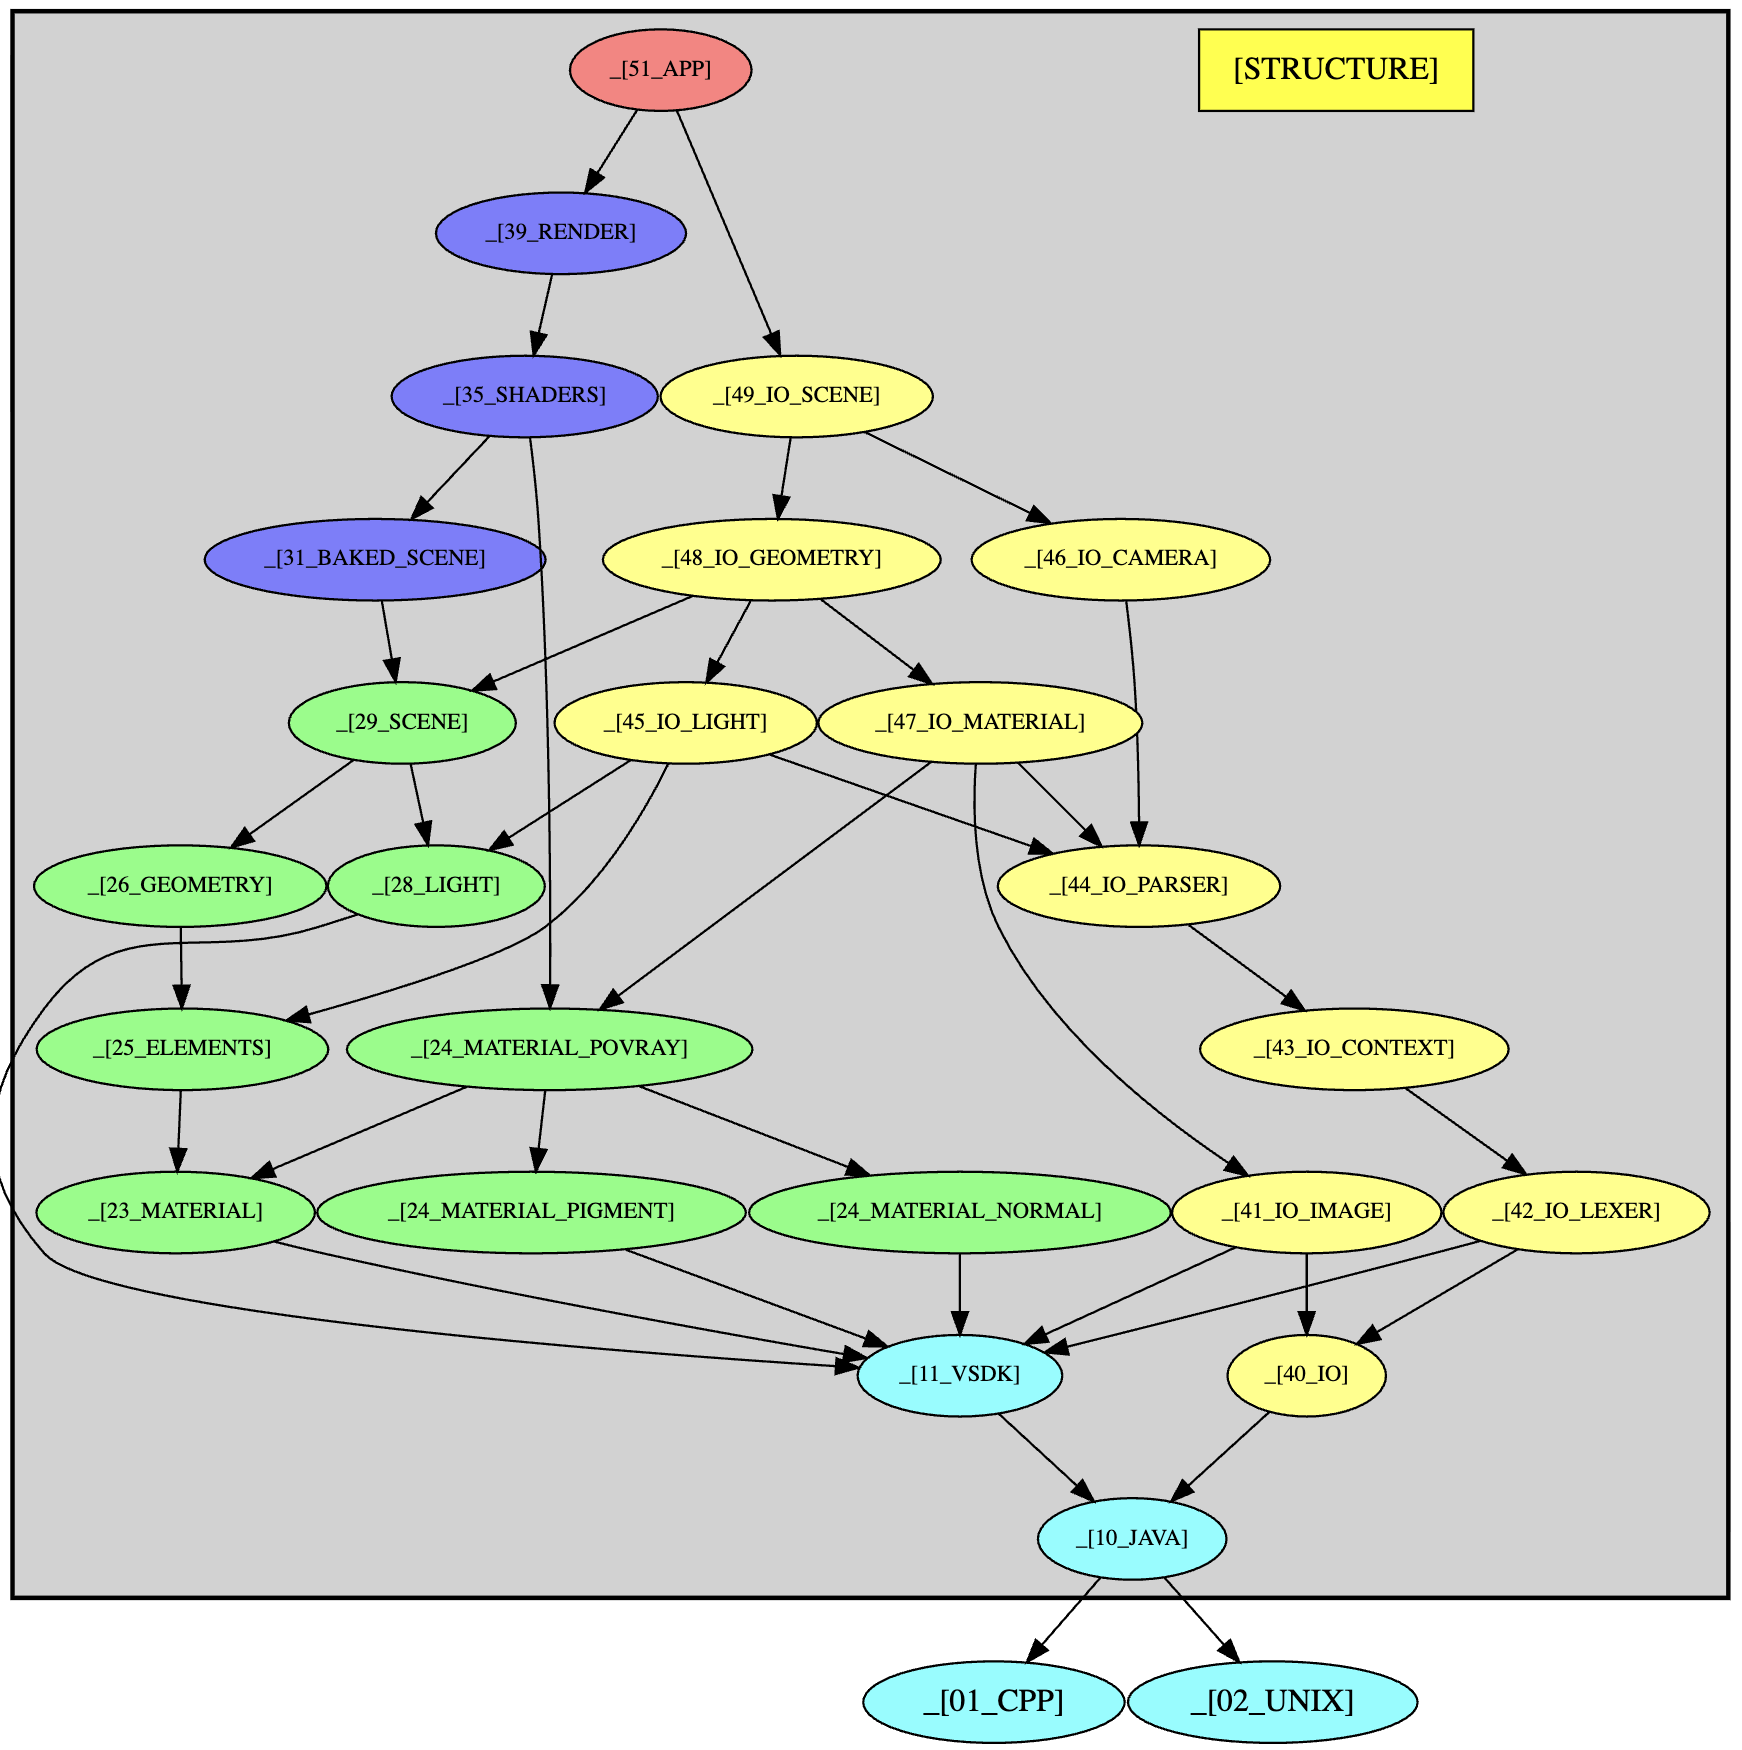
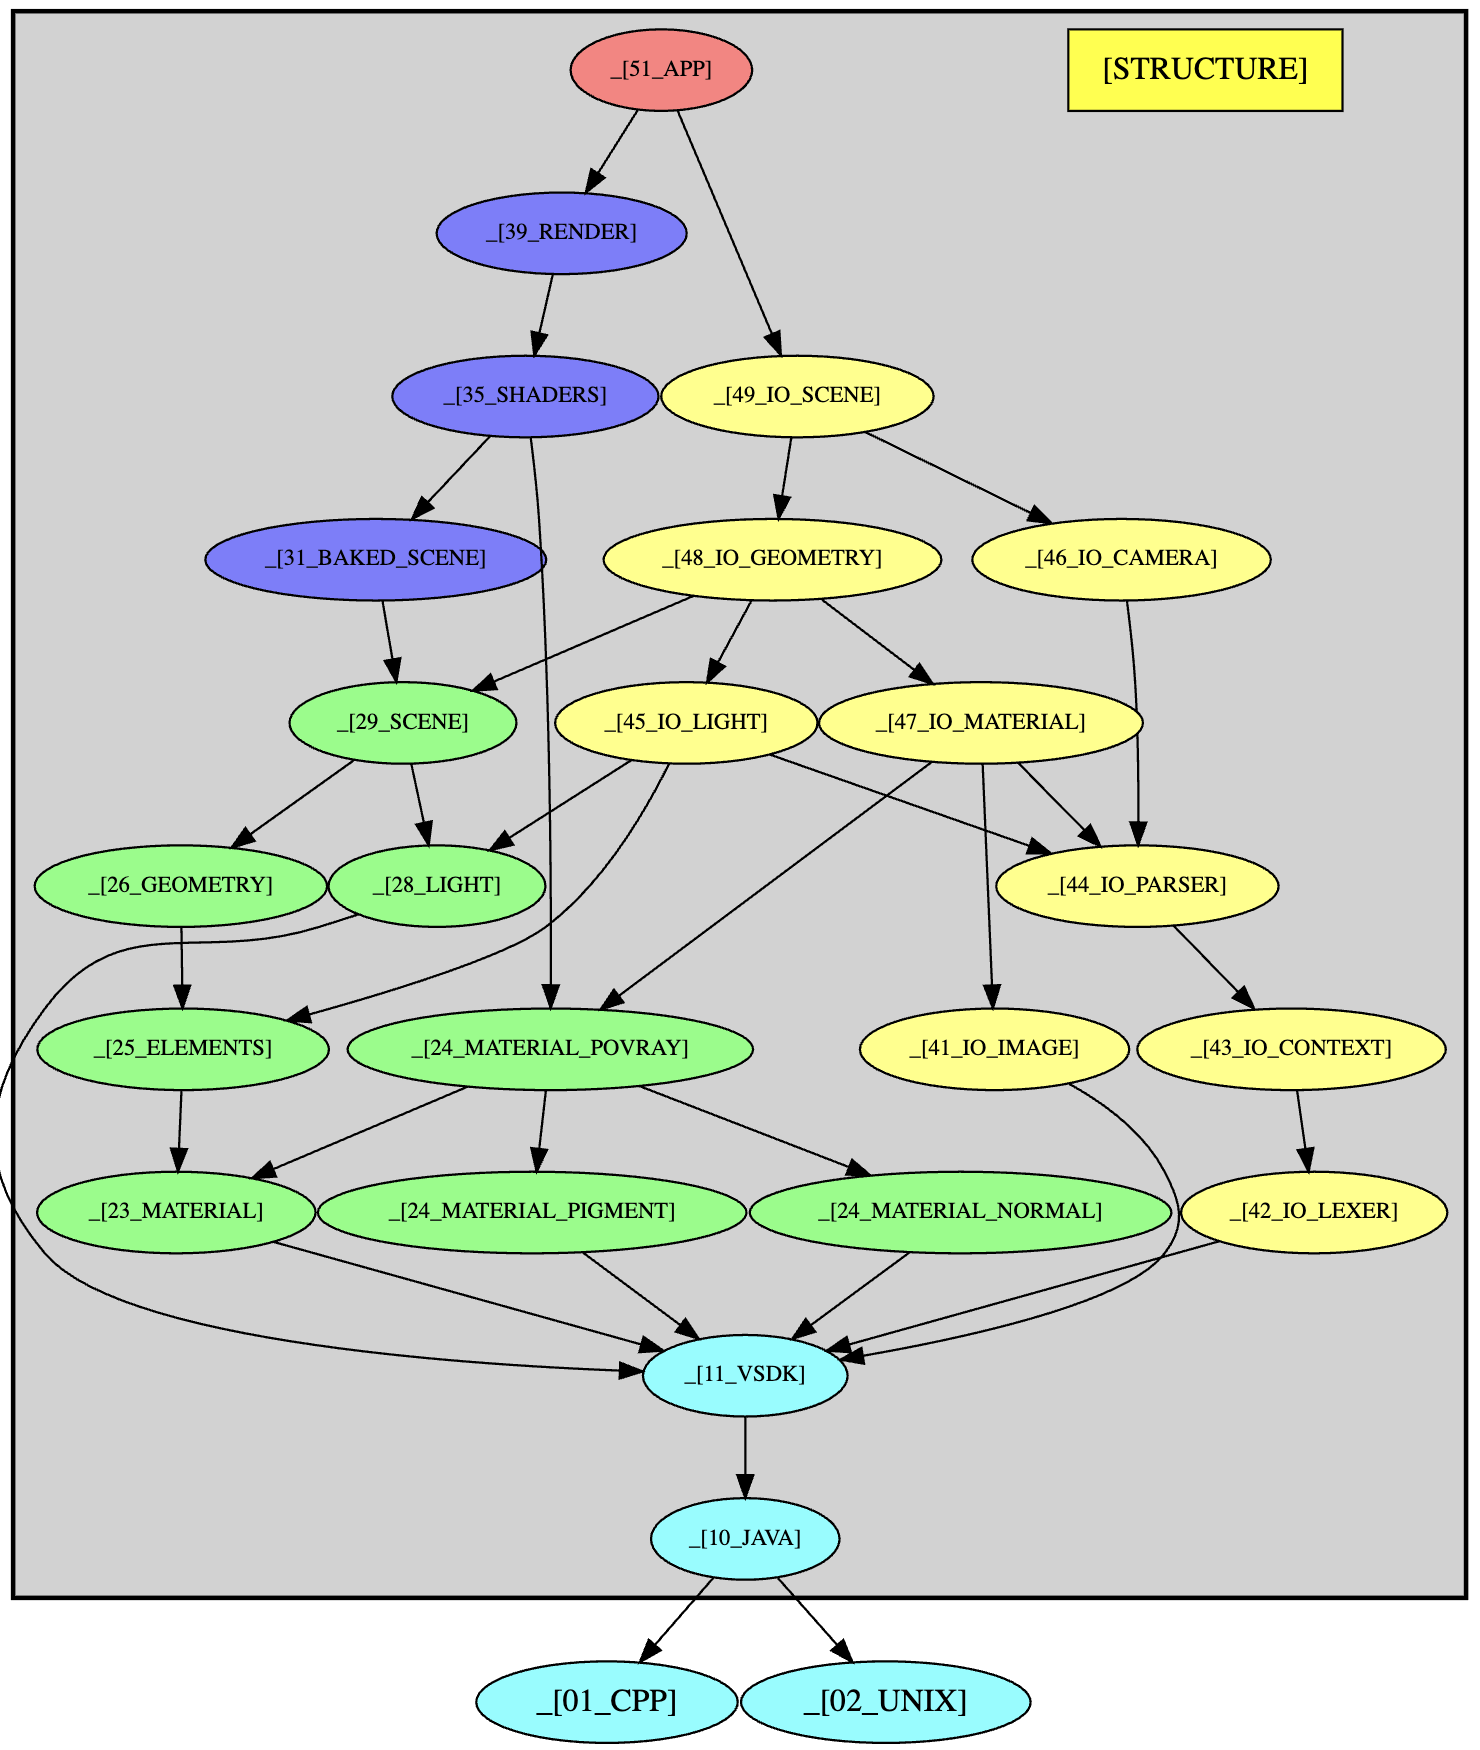
FileLocator in vitral

Changed region(s): [[0.0, 0.0, 0.9946, 1.0], [0.6838, 0.0, 0.9324, 0.0617], [0.3108, 0.7406, 0.3419, 0.7714]]

diff --git a/base/src/main/vsdk/toolkit/io/FileLocator.cpp b/base/src/main/vsdk/toolkit/io/FileLocator.cpp
@@ -1,0 +1,43 @@
+#include <cstdio>
+
+#include "java/util/ArrayList.txx"
+#include "vsdk/toolkit/io/FileLocator.h"
+
+void
+FileLocator::clearSearchPaths()
+{
+    searchPaths.clear();
+}
+
+void
+FileLocator::addSearchPath(const char *path)
+{
+    searchPaths.add(java::String(path));
+}
+
+const java::ArrayList<java::String> &
+FileLocator::getSearchPaths() const
+{
+    return searchPaths;
+}
+
+java::File *
+FileLocator::locate(const char *filename) const
+{
+    java::File *candidate = new java::File(filename);
+    if (candidate->canRead()) {
+        return candidate;
+    }
+    delete candidate;
+
+    for (long int i = 0; i < searchPaths.size(); i++) {
+        char pathname[512];
+        snprintf(pathname, sizeof(pathname), "%s/%s", searchPaths.get(i).toCString(), filename);
+        candidate = new java::File(pathname);
+        if (candidate->canRead()) {
+            return candidate;
+        }
+        delete candidate;
+    }
+    return nullptr;
+}

diff --git a/base/src/main/vsdk/toolkit/io/FileLocator.h b/base/src/main/vsdk/toolkit/io/FileLocator.h
@@ -1,0 +1,19 @@
+#ifndef __FILE_LOCATOR__
+#define __FILE_LOCATOR__
+
+#include "java/lang/String.h"
+#include "java/util/ArrayList.h"
+#include "java/io/File.h"
+
+class FileLocator {
+  private:
+    java::ArrayList<java::String> searchPaths;
+
+  public:
+    void clearSearchPaths();
+    void addSearchPath(const char *path);
+    const java::ArrayList<java::String> &getSearchPaths() const;
+    java::File *locate(const char *filename) const;
+};
+
+#endif

diff --git a/src/io/pov/lexer/Tokenizer.cpp b/src/io/pov/lexer/Tokenizer.cpp
@@ -10,7 +10,7 @@ description files.  This phase changes the input file into tokens.
 #include <cctype>
 
 #include "vsdk/toolkit/common/logging/Logger.h"
-#include "io/binaryIo/FileLocator.h"
+#include "vsdk/toolkit/io/FileLocator.h"
 #include "io/pov/lexer/Tokenizer.h"
 
 /**
@@ -184,7 +184,11 @@ Tokenizer::initializeTokenizer(const char *filename)
     sGlobalIncludeFileIndex = 0;
     sGlobalDataFile = &sGlobalIncludeFiles[0];
 
-    sGlobalDataFile->setFile(mFileLocator->locate(filename, "r"));
+    {
+        java::File * const located = mFileLocator->locate(filename);
+        sGlobalDataFile->setFile(located == nullptr ? nullptr : fopen(located->getPath().toCString(), "r"));
+        delete located;
+    }
     if (sGlobalDataFile->getFile() == nullptr) {
         Logger::reportMessage("Tokenizer", Logger::FATAL_ERROR, "", "Cannot open input file\n");
     }
@@ -546,8 +550,11 @@ Tokenizer::getToken()
 
             strcpy(sGlobalDataFile->getFilename(), token().getTokenString());
 
-            sGlobalDataFile->setFile(mFileLocator->locate(
-                token().getTokenString(), "r"));
+            {
+                java::File * const located = mFileLocator->locate(token().getTokenString());
+                sGlobalDataFile->setFile(located == nullptr ? nullptr : fopen(located->getPath().toCString(), "r"));
+                delete located;
+            }
             if (sGlobalDataFile->getFile() == nullptr) {
                 {
                     char _logMsg[1024];

diff --git a/src/io/image/RawDumpFormat.cpp b/src/io/image/RawDumpFormat.cpp
@@ -23,7 +23,7 @@ The format is as follows:
 #include "vsdk/toolkit/common/logging/Logger.h"
 #include "vsdk/toolkit/io/PersistenceElement.h"
 #include "vsdk/toolkit/media/RGBAImageHDRUncompressed.h"
-#include "io/binaryIo/FileLocator.h"
+#include "vsdk/toolkit/io/FileLocator.h"
 #include "io/image/RawDumpFormat.h"
 
 class AppendableFileOutputStream : public java::OutputStream {
@@ -101,9 +101,13 @@ RawDumpFormat::open(char *name, int *w, int *h, int bufferSize, int openMode, in
 
     switch (mode) {
     case READ_MODE:
-        inputStream = fileLocator->locateAsStream(name);
-        if (inputStream == nullptr) {
-            return 0;
+        {
+            java::File * const located = fileLocator->locate(name);
+            if (located == nullptr) {
+                return 0;
+            }
+            inputStream = new java::FileInputStream(located->getPath().toCString());
+            delete located;
         }
         *w = PersistenceElement::readSignedShortLE(*inputStream);
         *h = PersistenceElement::readSignedShortLE(*inputStream);

diff --git a/src/io/image/TargaFormat.cpp b/src/io/image/TargaFormat.cpp
@@ -5,7 +5,7 @@
 #include "vsdk/toolkit/common/color/ColorRgba.h"
 #include "vsdk/toolkit/common/logging/Logger.h"
 #include "vsdk/toolkit/media/RGBAImageHDRUncompressed.h"
-#include "io/binaryIo/FileLocator.h"
+#include "vsdk/toolkit/io/FileLocator.h"
 #include "io/image/TargaFormat.h"
 
 class AppendableFileOutputStream : public java::OutputStream {
@@ -83,9 +83,13 @@ TargaFormat::open(char *name, int *w, int *h, int bufferSize, int openMode, int 
 
     switch (mode) {
     case READ_MODE:
-        inputStream = fileLocator->locateAsStream(name);
-        if (inputStream == nullptr) {
-            return 0;
+        {
+            java::File * const located = fileLocator->locate(name);
+            if (located == nullptr) {
+                return 0;
+            }
+            inputStream = new java::FileInputStream(located->getPath().toCString());
+            delete located;
         }
         for (int i = 0; i < 12; i++) {
             if (inputStream->read() == -1) {

diff --git a/src/io/image/IffFormat.cpp b/src/io/image/IffFormat.cpp
@@ -7,7 +7,7 @@ This file implements a simple IFF format file reader.
 #include <cstdio>
 
 #include "vsdk/toolkit/common/logging/Logger.h"
-#include "io/binaryIo/FileLocator.h"
+#include "vsdk/toolkit/io/FileLocator.h"
 #include "io/image/IffFormat.h"
 
 static constexpr long FORM = 0x464f524dL;
@@ -89,7 +89,14 @@ IffFormat::readIffImage(RGBAImageHDRUncompressed *directOut, const char *filenam
     int iwidth = 0;
     int iheight = 0;
 
-    java::FileInputStream * const fileStream = locator.locateAsStream(filename);
+    java::FileInputStream *fileStream = nullptr;
+    {
+        java::File * const located = locator.locate(filename);
+        if (located != nullptr) {
+            fileStream = new java::FileInputStream(located->getPath().toCString());
+            delete located;
+        }
+    }
     if (fileStream == nullptr) {
         {
             char _logMsg[1024];

diff --git a/src/io/image/GifFormat.cpp b/src/io/image/GifFormat.cpp
@@ -9,7 +9,7 @@ Gif-format file reader.
 #include <cstring>
 
 #include "vsdk/toolkit/common/logging/Logger.h"
-#include "io/binaryIo/FileLocator.h"
+#include "vsdk/toolkit/io/FileLocator.h"
 #include "io/image/GifDecoder.h"
 #include "io/image/GifFormat.h"
 
@@ -56,7 +56,13 @@ GifFormat::readGifImage(IndexedColorImageHDRUncompressed *image, const char *fil
         0x007F, 0x00FF, 0x01FF, 0x03FF, 0x07FF, 0x0FFF}, 0, 0, 0, 0, 0, 0, 0, 0, 0, 0,
         {0}, nullptr, nullptr, nullptr, nullptr};
 
-    gif.bitStream = locator.locateAsStream(filename);
+    {
+        java::File * const located = locator.locate(filename);
+        if (located != nullptr) {
+            gif.bitStream = new java::FileInputStream(located->getPath().toCString());
+            delete located;
+        }
+    }
     if (gif.bitStream == nullptr) {
         {
             char _logMsg[1024];

diff --git a/base/src/main/java/util/ArrayList.h b/base/src/main/java/util/ArrayList.h
@@ -1,7 +1,8 @@
-#ifndef ArrayList__
-#define ArrayList__
+#ifndef __ArrayList__
+#define __ArrayList__
 
 #include "java/lang/Object.h"
+
 namespace java {
     template<class T>
     class ArrayList final : public Object {

diff --git a/src/app/options/CommandLineOptions.cpp b/src/app/options/CommandLineOptions.cpp
@@ -9,7 +9,7 @@
 #include "environment/material/PovRayRendererConfiguration.h"
 #include "environment/material/normal/MaterialConfig.h"
 #include "environment/scene/Scene.h"
-#include "io/binaryIo/FileLocator.h"
+#include "vsdk/toolkit/io/FileLocator.h"
 #include "app/options/CommandLineOptions.h"
 
 static constexpr int MAX_FILE_NAMES = 1;
@@ -273,7 +273,7 @@ CommandLineOptions::parseOption(const char *optionString, PovRayRendererConfigur
 
     case 'L':
     case 'l':
-        if (fileLocator.searchPaths().size() >= 10) {
+        if (fileLocator.getSearchPaths().size() >= 10) {
             Logger::reportMessage("CommandLineOptions", Logger::FATAL_ERROR, "", "Too many library directories specified\n");
         }
         fileLocator.addSearchPath(&optionString[1]);

diff --git a/src/app/PovRayApplication.h b/src/app/PovRayApplication.h
@@ -6,7 +6,7 @@
 #include "io/context/RenderRuntimeState.h"
 #include "environment/material/PovRayRendererConfiguration.h"
 #include "environment/scene/Scene.h"
-#include "io/binaryIo/FileLocator.h"
+#include "vsdk/toolkit/io/FileLocator.h"
 #include "io/image/ImageOutput.h"
 #include "vsdk/toolkit/media/solidTexture/TextureUtils.h"
 #include "render/RenderEngine.h"

diff --git a/src/app/options/CommandLineOptions.h b/src/app/options/CommandLineOptions.h
@@ -3,7 +3,7 @@
 
 #include "environment/material/PovRayRendererConfiguration.h"
 #include "environment/scene/Scene.h"
-#include "io/binaryIo/FileLocator.h"
+#include "vsdk/toolkit/io/FileLocator.h"
 
 class CommandLineOptions {
   private:

diff --git a/src/io/image/GifFormat.h b/src/io/image/GifFormat.h
@@ -3,7 +3,7 @@
 
 #include "java/io/FileInputStream.h"
 #include "vsdk/toolkit/media/IndexedColorImageHDRUncompressed.h"
-#include "io/binaryIo/FileLocator.h"
+#include "vsdk/toolkit/io/FileLocator.h"
 
 // Scratch state threaded through the GifDecoder C-style callbacks
 // (GifFormat::outLine/getByte) via a void* context pointer.